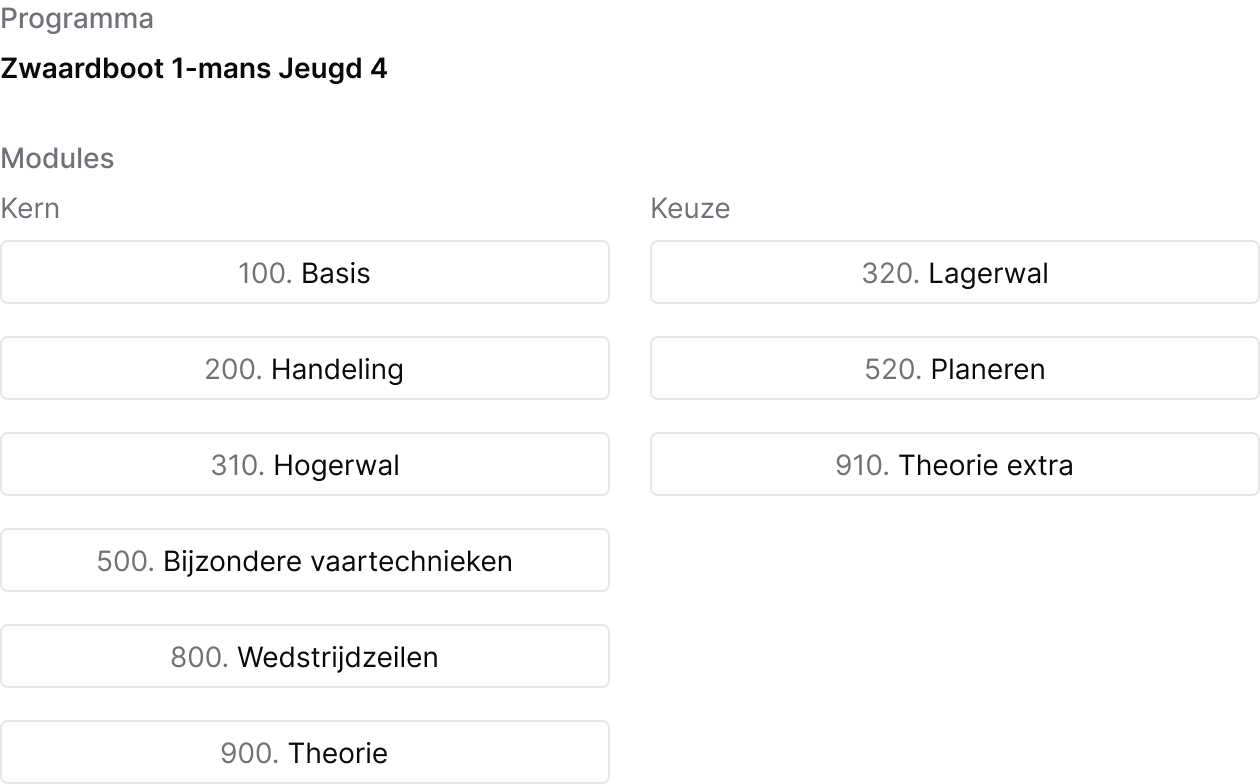
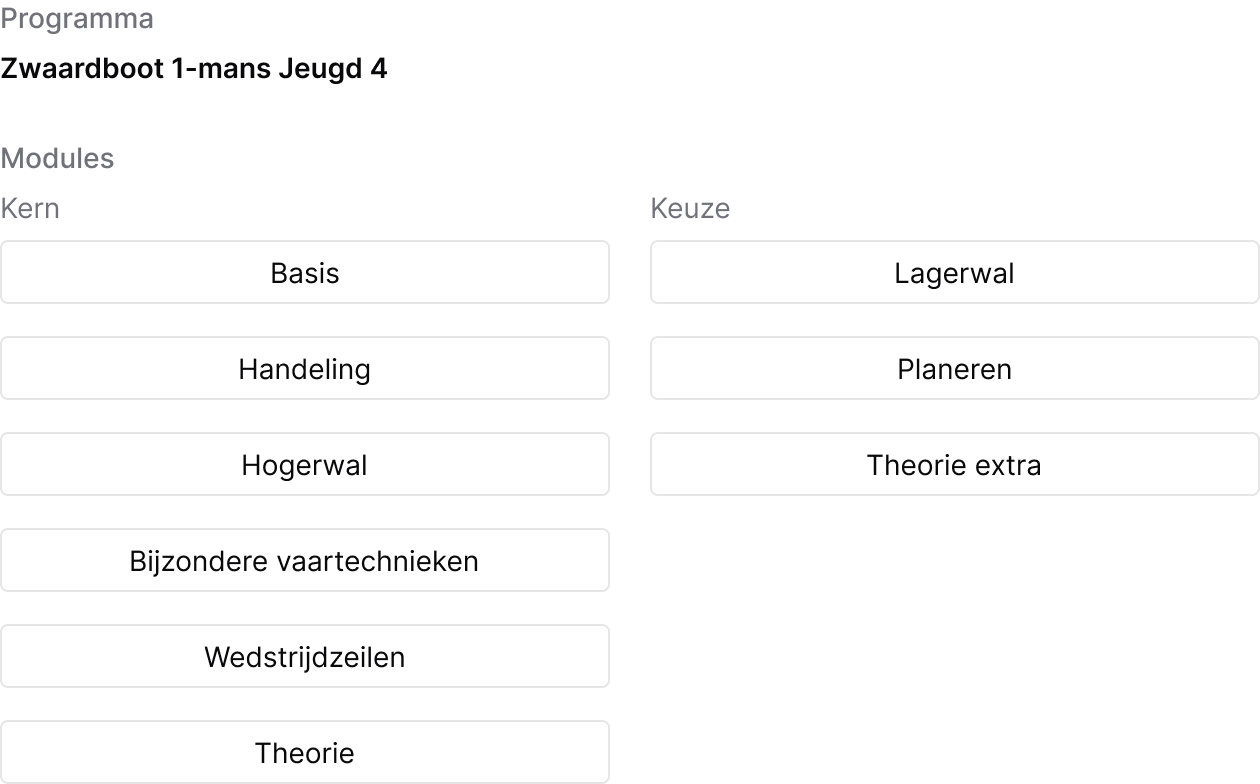
Chore/hide-weights (#214)
- on website
- in generated pdfs

diff --git a/packages/scripts/src/print-courses.tsx b/packages/scripts/src/print-courses.tsx
@@ -175,7 +175,12 @@ async function main() {
     )
 
     return (
-      <PageLayout bookmark="Modules" footerTitle={program.title ?? undefined}>
+      <PageLayout
+        bookmark="Modules"
+        footerTitle={
+          program.title ?? `${program.course.title} ${program.degree.title}`
+        }
+      >
         <View>
           <Text style={programStyles.title}>{program.title}</Text>
         </View>
@@ -188,9 +193,7 @@ async function main() {
               {...{ bookmark: module.title }}
             >
               <View style={programStyles.moduleTitleSection}>
-                <Text
-                  style={programStyles.moduleTitle}
-                >{`${module.weight}. ${module.title}`}</Text>
+                <Text style={programStyles.moduleTitle}>{module.title}</Text>
               </View>
 
               <View>
@@ -203,7 +206,7 @@ async function main() {
                         wrap={false}
                       >
                         <Text style={programStyles.comptencyTitle}>
-                          {`${competency.weight}. ${competency.title}`}
+                          {competency.title}
                         </Text>
                         <Text style={programStyles.comptencyContent}>
                           {competency.requirement}

diff --git a/apps/web/src/app/(public)/_components/header/header.tsx b/apps/web/src/app/(public)/_components/header/header.tsx
@@ -11,6 +11,9 @@ export default function Header() {
         Naar de inhoud gaan
       </a>
       <Trustbar />
+      {/* TODO: I don't find this 'active' prop intuitive. 
+      It's also not flexibel enough, the help & contact section is currently not highlighted for example.
+      ideally it take a function (segments: string[]) => boolean */}
       <Nav
         items={[
           {
@@ -80,10 +83,21 @@ export default function Header() {
               },
             ],
           },
-
           {
-            label: "Contact",
-            href: "/contact",
+            label: "Hulp & contact",
+            active: "/diplomalijn",
+            component: [
+              {
+                label: "Helpcentrum",
+                href: "/help",
+                description: "Antwoord op vele vragen.",
+              },
+              {
+                label: "Contact",
+                href: "/contact",
+                description: "Neem contact met ons op.",
+              },
+            ],
           },
         ]}
       />

diff --git a/apps/web/src/app/_components/weight.tsx b/apps/web/src/app/_components/weight.tsx
@@ -1,5 +1,8 @@
 export function Weight({ weight }: { weight: number }) {
-  if (process.env.VERCEL_ENV === "production") {
+  if (
+    process.env.NEXT_PUBLIC_VERCEL_ENV !== "development" ||
+    process.env.VERCEL_ENV !== "development"
+  ) {
     return null;
   }
 
